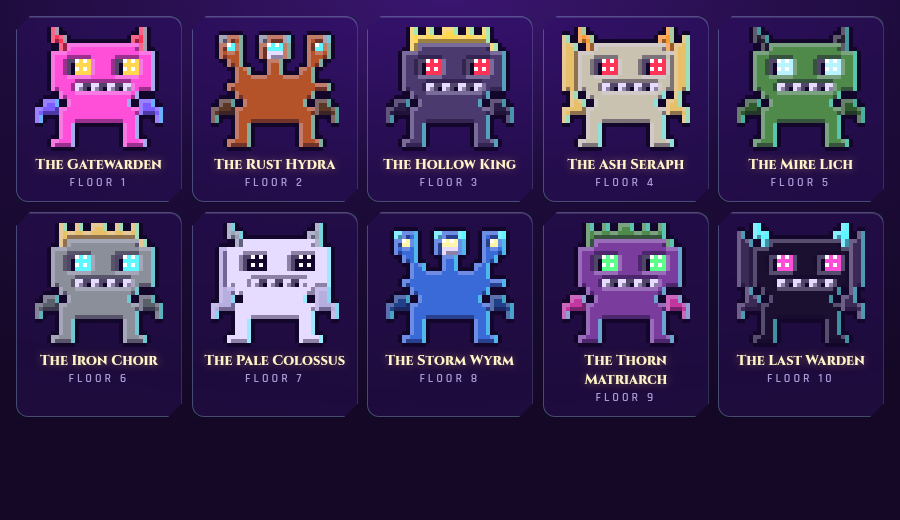
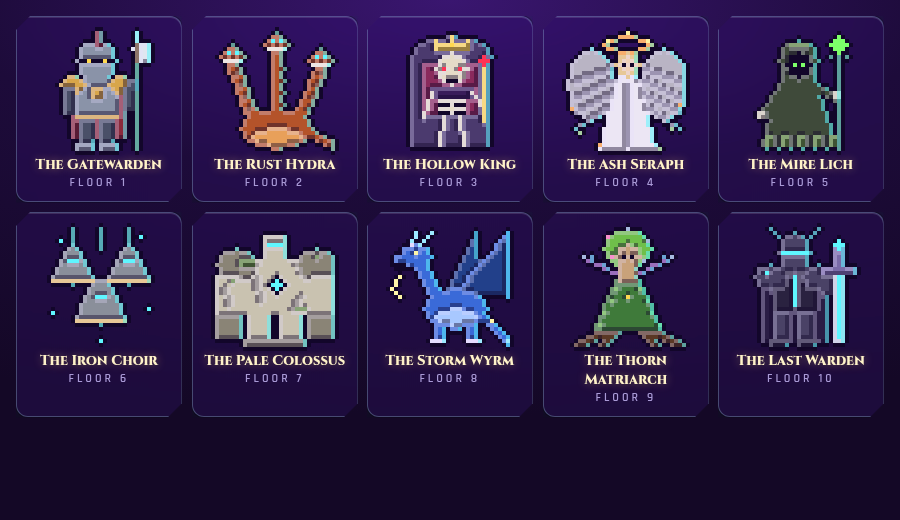
Fantasy sprite pass: 10 original creature bosses, chibi class-silhouette heroes

diff --git a/js/bosses.js b/js/bosses.js
@@ -1,0 +1,91 @@
+// Floor bosses: original creature silhouettes drawn with simple primitives on a 32x32 grid, then outlined/shaded by shade().
+// Pure (no DOM). Palette chars: k = deep shadow, E = glow (both unshaded).
+import { shade } from './pixel.js';
+export const BOSS_SIZE = 32;
+function canvas() {
+  const g = Array.from({ length: BOSS_SIZE }, () => Array(BOSS_SIZE).fill('.'));
+  const px = (x, y, c) => { x = Math.round(x); y = Math.round(y); if (x >= 1 && x < BOSS_SIZE - 1 && y >= 1 && y < BOSS_SIZE - 1) g[y][x] = c; };
+  const rect = (x, y, w, h, c) => { for (let j = y; j < y + h; j++) for (let i = x; i < x + w; i++) px(i, j, c); };
+  const ell = (cx, cy, rx, ry, c) => { for (let j = -ry; j <= ry; j++) for (let i = -rx; i <= rx; i++) if ((i * i) / (rx * rx + 0.5) + (j * j) / (ry * ry + 0.5) <= 1) px(cx + i, cy + j, c); };
+  const line = (x0, y0, x1, y1, c, t = 1) => { const n = Math.max(Math.abs(x1 - x0), Math.abs(y1 - y0), 1); for (let s = 0; s <= n; s++) { const x = x0 + (x1 - x0) * s / n, y = y0 + (y1 - y0) * s / n; rect(Math.round(x - (t - 1) / 2), Math.round(y - (t - 1) / 2), t, t, c); } };
+  const tri = (a, b, d, c) => { const [minY, maxY] = [Math.min(a[1], b[1], d[1]), Math.max(a[1], b[1], d[1])]; for (let y = minY; y <= maxY; y++) for (let x = 0; x < BOSS_SIZE; x++) {
+    const s = (p, q) => (q[0] - p[0]) * (y - p[1]) - (q[1] - p[1]) * (x - p[0]); const e = [s(a, b), s(b, d), s(d, a)]; if (e.every(v => v >= 0) || e.every(v => v <= 0)) px(x, y, c); } };
+  const flare = (y0, y1, cx, w0, w1, c) => { for (let y = y0; y <= y1; y++) { const w = Math.round(w0 + (w1 - w0) * (y - y0) / Math.max(1, y1 - y0)); rect(cx - w, y, 2 * w + 1, 1, c); } };
+  return { g, px, rect, ell, line, tri, flare, rows: () => g.map(r => r.join('')) };
+}
+const K = '#12062a';
+export const BOSSES = [
+  { name: 'The Gatewarden', pal: { R: '#8a2a3c', M: '#8a93a8', D: '#4a5068', G: '#d8a64a', W: '#6b4a2b', S: '#dfe6f0', E: '#ffd84f', k: K }, draw: ({ rect, ell, line, px }) => {
+    rect(9, 13, 14, 15, 'R');                                  // cape
+    line(25, 3, 25, 30, 'W', 1); rect(26, 4, 3, 5, 'S'); line(25, 1, 25, 3, 'S'); px(24, 5, 'S'); // halberd
+    ell(15, 8, 5, 5, 'M'); line(15, 1, 15, 3, 'R', 2); rect(11, 8, 9, 1, 'k'); px(13, 8, 'E'); px(17, 8, 'E'); // helm, plume, visor
+    rect(10, 13, 11, 10, 'M'); rect(14, 15, 3, 3, 'G'); rect(10, 22, 11, 1, 'G');
+    ell(9, 14, 3, 2, 'G'); ell(21, 14, 3, 2, 'G'); rect(7, 15, 3, 7, 'D'); rect(22, 15, 3, 6, 'D'); rect(23, 13, 3, 3, 'D'); // pauldrons, arms
+    rect(11, 23, 4, 6, 'D'); rect(16, 23, 4, 6, 'D'); rect(10, 29, 5, 2, 'M'); rect(16, 29, 5, 2, 'M');
+  } },
+  { name: 'The Rust Hydra', pal: { B: '#b4532a', L: '#e8a05a', H: '#6b2e18', w: '#f4ead8', E: '#5ff6ff', k: K }, draw: ({ ell, line, px }) => {
+    line(24, 26, 30, 29, 'B', 2); ell(16, 25, 9, 5, 'B'); ell(16, 27, 6, 2, 'L');
+    for (const [x0, x1, y1] of [[10, 5, 9], [16, 16, 6], [22, 27, 10]]) { line(x0, 22, x1, y1, 'B', 3); ell(x1, y1 - 2, 3, 2, 'B'); px(x1 - 1, y1 - 3, 'E'); px(x1 + 1, y1 - 3, 'E'); line(x1 - 2, y1 - 1, x1 + 2, y1 - 1, 'w'); px(x1, y1 - 5, 'H'); }
+    for (let i = 0; i < 4; i++) { px(9 - i, 20 - i * 3, 'H'); px(18, 19 - i * 3, 'H'); px(24 + i, 20 - i * 3, 'H'); }
+  } },
+  { name: 'The Hollow King', pal: { T: '#4b3a6e', R: '#8a2a5c', W: '#e6dcc8', P: '#3a1d5a', G: '#ffd84f', E: '#ff3355', k: K }, draw: ({ rect, ell, line, px }) => {
+    ell(16, 7, 10, 5, 'T'); rect(6, 7, 20, 23, 'T'); rect(9, 9, 14, 13, 'R'); rect(7, 22, 18, 3, 'T'); // throne
+    ell(16, 10, 4, 4, 'W'); px(14, 10, 'k'); px(18, 10, 'k'); px(14, 10, 'E'); px(18, 10, 'E'); rect(15, 13, 3, 1, 'k'); // skull
+    rect(12, 4, 9, 2, 'G'); px(12, 3, 'G'); px(16, 2, 'G'); px(16, 3, 'G'); px(20, 3, 'G');           // crown
+    rect(11, 15, 11, 3, 'P'); rect(13, 18, 7, 4, 'W'); for (const y of [19, 21]) rect(13, y, 7, 1, 'k'); px(16, 19, 'W'); px(16, 21, 'W');
+    line(11, 16, 9, 22, 'W'); line(21, 16, 24, 20, 'W'); line(24, 9, 24, 23, 'G'); ell(24, 8, 1, 1, 'E'); // arms, scepter
+    line(14, 22, 13, 29, 'W'); line(18, 22, 19, 29, 'W'); rect(7, 25, 2, 5, 'T'); rect(23, 25, 2, 5, 'T');
+  } },
+  { name: 'The Ash Seraph', pal: { F: '#ff9a2e', W: '#b9b4c4', L: '#7d7590', R: '#ece6f4', S: '#f1d1b5', G: '#e8c06a', E: '#fff3a0', k: K }, draw: ({ ell, line, flare, px }) => {
+    ell(7, 14, 6, 9, 'W'); ell(25, 14, 6, 9, 'W'); for (let i = 0; i < 4; i++) { line(12, 10 + i * 3, 3, 13 + i * 4, 'L'); line(20, 10 + i * 3, 29, 13 + i * 4, 'L'); }
+    ell(16, 4, 6, 2, 'F'); ell(16, 4, 4, 1, '.'); px(16, 1, 'E'); px(11, 3, 'E'); px(21, 3, 'E');      // burning halo
+    flare(12, 30, 16, 2, 7, 'R'); line(16, 14, 16, 29, 'L'); ell(16, 9, 3, 3, 'G'); ell(16, 9, 2, 2, 'S'); px(15, 9, 'k'); px(17, 9, 'k');
+    for (const [x, y] of [[4, 26], [27, 25], [9, 29], [24, 30], [2, 20], [29, 19]]) px(x, y, 'F');
+  } },
+  { name: 'The Mire Lich', pal: { R: '#3f4a3a', M: '#5f8a3a', W: '#d6d0b8', D: '#5a3825', E: '#7dff6a', k: K }, draw: ({ rect, ell, line, flare, px }) => {
+    line(25, 5, 25, 30, 'D'); ell(25, 4, 2, 2, 'E'); px(23, 7, 'D'); px(27, 7, 'D');                // staff + orb
+    flare(12, 29, 15, 4, 9, 'R'); for (let x = 7; x <= 23; x += 3) rect(x, 30, 1, 1, 'R');             // ragged robe
+    for (let x = 7; x <= 23; x += 4) rect(x, 27, 2, 3, 'M');
+    ell(15, 8, 5, 5, 'R'); ell(15, 9, 3, 3, 'k'); px(14, 9, 'E'); px(16, 9, 'E'); rect(13, 4, 5, 1, 'M');
+    line(10, 15, 6, 21, 'R', 2); line(20, 15, 24, 17, 'R', 2); rect(5, 21, 2, 2, 'W'); rect(24, 16, 2, 2, 'W');
+  } },
+  { name: 'The Iron Choir', pal: { M: '#8a8f9a', D: '#4a4f5a', G: '#e8c06a', E: '#5ff6ff', k: K }, draw: ({ rect, ell, line, flare, px }) => {
+    for (const x of [9, 16, 23]) line(x, 1, x, 6, 'D');
+    for (const [cx, cy, w] of [[9, 7, 4], [23, 7, 4], [16, 16, 5]]) { ell(cx, cy, w - 2, 2, 'M'); flare(cy, cy + w + 3, cx, w - 2, w + 1, 'M'); rect(cx - w - 1, cy + w + 3, 2 * w + 3, 1, 'G'); rect(cx - 1, cy + 2, 3, 1, 'E'); px(cx, cy + w + 4, 'D'); }
+    for (const [x, y] of [[4, 22], [28, 21], [16, 29], [6, 4], [26, 3]]) px(x, y, 'E');               // resonance motes
+  } },
+  { name: 'The Pale Colossus', big: true, pal: { S: '#c9c2b0', D: '#8a8476', M: '#5f8a3a', E: '#5ff6ff', k: K }, draw: ({ rect, ell, line, px }) => {
+    rect(9, 22, 6, 9, 'S'); rect(17, 22, 6, 9, 'S'); rect(8, 29, 8, 2, 'D'); rect(16, 29, 8, 2, 'D');  // legs
+    rect(7, 9, 18, 14, 'S'); ell(6, 10, 5, 4, 'D'); ell(26, 10, 5, 4, 'D');                          // torso, shoulders
+    rect(1, 13, 6, 11, 'S'); rect(25, 13, 6, 11, 'S'); rect(1, 23, 7, 6, 'D'); rect(24, 23, 7, 6, 'D'); // arms, fists
+    rect(13, 3, 6, 6, 'S'); rect(14, 5, 4, 1, 'E');                                                  // head, visor
+    ell(16, 15, 2, 2, 'k'); ell(16, 15, 1, 1, 'E'); line(10, 11, 12, 19, 'D'); line(22, 18, 20, 21, 'D'); line(3, 16, 4, 20, 'D');
+    rect(7, 9, 4, 2, 'M'); rect(21, 21, 3, 1, 'M'); px(26, 8, 'M'); px(5, 14, 'M');
+  } },
+  { name: 'The Storm Wyrm', pal: { B: '#3a6ad8', L: '#a8c8ff', W: '#22408a', H: '#e6dcff', E: '#fff6a8', k: K }, draw: ({ rect, ell, line, tri, px }) => {
+    tri([17, 17], [30, 2], [30, 18], 'W'); tri([14, 17], [22, 2], [24, 16], 'W'); line(17, 17, 30, 2, 'B'); line(30, 2, 30, 18, 'B'); // wings
+    line(24, 23, 30, 29, 'B', 2); px(30, 29, 'H');                                                  // tail
+    ell(17, 21, 8, 5, 'B'); ell(17, 23, 5, 2, 'L'); rect(12, 25, 3, 5, 'B'); rect(20, 25, 3, 5, 'B'); rect(11, 29, 4, 1, 'H'); rect(20, 29, 4, 1, 'H');
+    line(12, 18, 8, 10, 'B', 3); ell(7, 8, 4, 3, 'B'); rect(2, 8, 4, 2, 'B'); line(8, 5, 11, 2, 'H'); line(6, 5, 7, 2, 'H'); px(7, 7, 'E'); rect(2, 10, 3, 1, 'k');
+    line(3, 13, 1, 16, 'E'); line(1, 16, 3, 18, 'E'); px(26, 24, 'E');                               // lightning
+  } },
+  { name: 'The Thorn Matriarch', pal: { D: '#5a3825', B: '#3f7a3a', H: '#6fbf4a', S: '#c9a27a', A: '#7a3d9e', F: '#ff6fb8', E: '#ffd84f', k: K }, draw: ({ rect, ell, line, flare, px }) => {
+    for (const x of [3, 9, 23, 29]) line(16, 24, x, 30, 'D', 2);                                    // roots
+    line(14, 13, 5, 8, 'A', 1); line(18, 13, 27, 8, 'A', 1); for (const [x, y] of [[7, 9], [25, 9], [10, 11], [22, 11]]) px(x, y - 1, 'A'); // thorn vines
+    flare(14, 26, 16, 3, 8, 'B'); for (let y = 16; y <= 26; y += 3) { px(16 - (y - 10) / 2, y, 'H'); px(16 + (y - 10) / 2, y, 'H'); }
+    ell(16, 6, 6, 5, 'H'); rect(14, 11, 5, 4, 'S'); ell(16, 8, 3, 3, 'S'); px(15, 8, 'k'); px(17, 8, 'k');
+    for (const [x, y] of [[11, 3], [21, 4], [12, 8], [20, 9], [5, 8], [27, 8], [16, 1]]) px(x, y, 'F'); px(16, 18, 'E');
+  } },
+  { name: 'The Last Warden', pal: { P: '#2a1d45', B: '#2a2240', M: '#4a4266', S: '#c8d0e0', G: '#7a6aa8', E: '#5ff6ff', k: K }, draw: ({ rect, ell, line, px }) => {
+    rect(6, 12, 17, 18, 'P');                                                                         // cape
+    rect(9, 12, 11, 10, 'B'); line(14, 13, 14, 20, 'E'); ell(8, 13, 4, 3, 'M'); ell(20, 13, 4, 3, 'M'); px(7, 12, 'E'); px(21, 12, 'E');
+    ell(14, 7, 4, 5, 'M'); rect(11, 7, 7, 1, 'E'); line(10, 3, 8, 1, 'M'); line(18, 3, 20, 1, 'M');   // horned helm, cyan visor
+    rect(9, 22, 4, 8, 'M'); rect(15, 22, 4, 8, 'M'); rect(8, 29, 5, 2, 'B'); rect(15, 29, 5, 2, 'B');
+    rect(24, 12, 3, 18, 'S'); line(25, 13, 25, 28, 'E'); rect(21, 11, 9, 2, 'G'); rect(24, 6, 3, 5, 'G'); ell(25, 5, 1, 1, 'E'); // planted greatsword
+    rect(21, 15, 3, 3, 'M');                                                                          // gauntlet on the grip line
+  } },
+];
+const at = f => BOSSES[(f - 1) % BOSSES.length];
+export function bossShape(f) { const c = canvas(); at(f).draw(c); return { rows: c.rows() }; }
+export const bossGrid = f => shade(bossShape(f).rows, at(f).pal, { scale: 1, drop: '', eyes: '', flat: 'kE' });
+export const bossIsBig = f => !!at(f).big;

diff --git a/js/cosmetics.js b/js/cosmetics.js
@@ -6,7 +6,7 @@ export const CATALOG = [
   I('skin-1', 'skin', 'Pale', '#f1d1b5'), I('skin-2', 'skin', 'Sand', '#c9a27a'), I('skin-3', 'skin', 'Umber', '#8a5a3c'), I('skin-4', 'skin', 'Deep', '#5a3825'),
   I('skin-ghost', 'skin', 'Ghost', '#b8f3ff', { floor: 7 }),
   // hair colour
-  I('hc-ink', 'hairColor', 'Ink', '#1b1030'), I('hc-rust', 'hairColor', 'Rust', '#b4532a'), I('hc-straw', 'hairColor', 'Straw', '#e8c35a'), I('hc-plum', 'hairColor', 'Plum', '#7a3d9e'),
+  I('hc-ink', 'hairColor', 'Ink', '#3b2c66'), I('hc-rust', 'hairColor', 'Rust', '#b4532a'), I('hc-straw', 'hairColor', 'Straw', '#e8c35a'), I('hc-plum', 'hairColor', 'Plum', '#7a3d9e'),
   I('hc-silver', 'hairColor', 'Static Silver', '#d6e2ff', { floor: 2 }), I('hc-neon', 'hairColor', 'Neon Cyan', '#3ff7ff', { top3: 1 }),
   // hair style
   I('hs-short', 'hairStyle', 'Short', 'short'), I('hs-long', 'hairStyle', 'Long', 'long'), I('hs-spiky', 'hairStyle', 'Spiky', 'spiky'), I('hs-hood', 'hairStyle', 'Hood', 'hood'),
@@ -95,9 +95,10 @@ export function fakeProfile(name) {
 import { shade } from './pixel.js';
 // ---------- layered sprite: 16x16 layer grid, shaded/outlined to 32x32 ----------
 export const HERO_SIZE = 32;
-const BASE = [
-  '................', '................', '......kkkk......', '.....kSSSSk.....', '.....kSeSek.....', '.....kSSSSk.....', '......kSSk......',
-  '....kOOOOOOk....', '...SkOTOOTOkS...', '...S.kOOOOk.S...', '....kOOOOOOk....', '.....kTTTTk.....', '.....kk..kk.....', '.....bb..bb.....', '................', '................'];
+const BASE = [ // chibi proportions: big head (rows 2-8), small body (rows 9-15)
+  '................', '................', '.....kkkkkk.....', '....kSSSSSSk....', '...kSSSSSSSSk...', '...kSSeSSeSSk...', '...kSSfSSfSSk...', '...kSmSSSSmSk...',
+  '....kSSSSSSk....', '.....kOOOOk.....', '....kOOOOOOk....', '...SkOTOOTOkS...', '....kOOOOOOk....', '.....kTTTTk.....', '.....bb..bb.....', '.....bb..bb.....'];
+const HAND_DY = 3; // weapons were authored for the old hand row; shift down to the chibi hand
 const WEAPONS = { // [x,y,ch] lists drawn at the hero's right hand (col 12-15)
   sword: [[13,2,'W'],[13,3,'W'],[13,4,'W'],[13,5,'W'],[13,6,'W'],[12,7,'w'],[13,7,'w'],[14,7,'w'],[13,8,'w']],
   axe: [[13,3,'w'],[13,4,'w'],[13,5,'w'],[13,6,'w'],[13,7,'w'],[13,8,'w'],[14,3,'W'],[15,3,'W'],[14,4,'W'],[15,4,'W'],[14,5,'W']],
@@ -110,20 +111,26 @@ const WEAPONS = { // [x,y,ch] lists drawn at the hero's right hand (col 12-15)
   wand: [[13,5,'W'],[14,4,'W'],[12,4,'W'],[13,3,'W'],[13,6,'w'],[13,7,'w'],[13,8,'w']],
 };
 /** Returns {rows: 32 strings of 32 chars, pal: char->colour} for a look + class. */
-export const heroGrid = (look, cls) => { const g = heroGrid16(look, cls); return shade(g.rows, g.pal); };
+export const heroGrid = (look, cls) => { const g = heroGrid16(look, cls); return shade(g.rows, g.pal, { flat: 'fm' }); };
 export function heroGrid16(look, cls) {
   const g = BASE.map(r => [...r]), set = (x, y, c) => { if (x >= 0 && x < 16 && y >= 0 && y < 16) g[y][x] = c; };
+  const fill = (x0, x1, y0, y1, c) => { for (let y = y0; y <= y1; y++) for (let x = x0; x <= x1; x++) set(x, y, c); };
   const style = byId(look.outfitStyle).value, hair = byId(look.hairStyle).value;
-  if (style === 'robe') { for (let y = 11; y <= 13; y++) for (let x = 5; x <= 10; x++) set(x, y, y === 13 ? 'T' : 'O'); set(4, 12, 'k'); set(11, 12, 'k'); }
-  if (style === 'plate') { set(3, 7, 'T'); set(4, 7, 'T'); set(11, 7, 'T'); set(12, 7, 'T'); set(6, 9, 'T'); set(9, 9, 'T'); }
-  if (style === 'cloak') { for (let y = 7; y <= 12; y++) { set(2, y, 'O'); set(13, y, 'O'); } set(1, 8, 'T'); set(14, 8, 'T'); }
-  if (hair === 'short') { for (let x = 5; x <= 10; x++) set(x, 2, 'H'); set(5, 3, 'H'); set(10, 3, 'H'); }
-  if (hair === 'long') { for (let x = 5; x <= 10; x++) set(x, 2, 'H'); for (let y = 3; y <= 8; y++) { set(4, y, 'H'); set(11, y, 'H'); } set(5, 3, 'H'); set(10, 3, 'H'); }
-  if (hair === 'spiky') { for (let x = 5; x <= 10; x++) set(x, 2, 'H'); [5, 7, 9].forEach(x => set(x, 1, 'H')); [6, 8, 10].forEach(x => set(x, 0, 'H')); set(5, 3, 'H'); }
-  if (hair === 'hood') { for (let x = 4; x <= 11; x++) set(x, 2, 'O'); for (let y = 3; y <= 6; y++) { set(4, y, 'O'); set(11, y, 'O'); } set(5, 1, 'O'); set(6, 1, 'O'); set(9, 1, 'O'); set(10, 1, 'O'); set(5, 3, 'H'); set(10, 3, 'H'); }
-  if (hair === 'crown') { for (let x = 5; x <= 10; x++) set(x, 2, 'H'); [5, 7, 8, 10].forEach(x => set(x, 1, 'y')); set(7, 0, 'y'); }
-  for (const [x, y, c] of WEAPONS[byId(look.weapon).value] || []) set(x, y, c);
-  const pal = { k: '#12062a', e: '#12062a', b: '#3a2a55', y: '#ffd84f', p: '#ff4fd8', S: byId(look.skin).value, H: byId(look.hairColor).value,
+  if (style === 'robe') { fill(4, 11, 13, 14, 'O'); fill(4, 11, 15, 15, 'T'); }
+  if (style === 'plate') { [3, 4, 11, 12].forEach(x => set(x, 10, 'T')); set(6, 12, 'T'); set(9, 12, 'T'); }
+  if (style === 'cloak') { fill(2, 2, 10, 14, 'O'); fill(13, 13, 10, 14, 'O'); set(1, 11, 'T'); set(14, 11, 'T'); }
+  const top = () => { fill(4, 11, 2, 2, 'H'); fill(3, 12, 3, 3, 'H'); [3, 4, 5, 7, 9, 10, 11, 12].forEach(x => set(x, 4, 'H')); };
+  if (hair === 'short') top();
+  if (hair === 'long') { top(); fill(2, 3, 5, 10, 'H'); fill(12, 13, 5, 10, 'H'); }
+  if (hair === 'spiky') { top(); [4, 6, 8, 10, 11].forEach(x => set(x, 1, 'H')); set(5, 0, 'H'); set(9, 0, 'H'); }
+  if (hair === 'hood') { fill(5, 10, 1, 1, 'O'); fill(3, 12, 2, 2, 'O'); fill(2, 13, 3, 3, 'O'); fill(2, 3, 4, 9, 'O'); fill(12, 13, 4, 9, 'O'); [4, 5, 10, 11].forEach(x => set(x, 4, 'H')); }
+  if (hair === 'crown') { top(); fill(4, 11, 1, 1, 'y'); [4, 7, 8, 11].forEach(x => set(x, 0, 'y')); }
+  // class silhouettes
+  if (cls === 'Vanguard') { fill(0, 3, 10, 14, 'T'); fill(1, 2, 11, 13, 'O'); set(3, 10, 'T'); set(12, 10, 'T'); } // kite shield + pauldrons
+  if (cls === 'Blade') { [[4, 9], [3, 9], [2, 10], [1, 10], [1, 11], [0, 12]].forEach(([x, y]) => set(x, y, 'r')); } // trailing scarf
+  if (cls === 'Arcanist' && hair !== 'hood' && hair !== 'crown') { set(10, 0, 'O'); set(11, 0, 'O'); fill(7, 9, 1, 1, 'O'); fill(5, 10, 2, 2, 'T'); fill(2, 13, 3, 3, 'O'); } // soft pointed hat
+  for (const [x, y, c] of WEAPONS[byId(look.weapon).value] || []) set(x, y + HAND_DY, c);
+  const pal = { k: '#12062a', e: '#12062a', f: '#2a1d45', m: '#ff8fa8', r: '#ff3355', b: '#3a2a55', y: '#ffd84f', p: '#ff4fd8', S: byId(look.skin).value, H: byId(look.hairColor).value,
     O: byId(look.outfitColor).value, T: byId(look.trim).value, W: byId(look.weaponColor).value, w: '#6b4a2b' };
   return { rows: g.map(r => r.join('')), pal };
 }

diff --git a/js/sprites.js b/js/sprites.js
@@ -8,30 +8,8 @@ export function sprite(rows, pal = PAL) {
 }
 const cache = new Map();
 const memo = (k, f) => { if (!cache.has(k)) cache.set(k, f()); return cache.get(k); };
-const BOSS_BASE = [
- '..H..........H..', '..HH........HH..', '...HBBBBBBBBBH..', '..BBBBBBBBBBBBB.', '..BBkEEBBBkEEBB.', '..BBkEEBBBkEEBB.', '..BBBBBBBBBBBBB.',
- '..BBBwkwkwkwBBB.', '...BBBBBBBBBB...', '.AA.BBBBBBBB.AA.', 'AAABBBBBBBBBBAAA', 'A..BBBBBBBBBB..A', '...BB......BB...', '...BB......BB...', '..BBB......BBB..', '................'];
-const BOSS_PAL = [ // body, horns, arms, eyes per floor
- ['#ff4fd8', '#ff3355', '#7a5cff', '#ffd84f'], ['#b4532a', '#8a8f9a', '#5a3825', '#5ff6ff'], ['#4b3a6e', '#ffd84f', '#2a1d45', '#ff3355'],
- ['#c9c2b0', '#ff9a2e', '#e8c06a', '#ff3355'], ['#4f8a4b', '#26232e', '#2f5a2c', '#b8f3ff'], ['#8a8f9a', '#e8c06a', '#5a5f6a', '#5ff6ff'],
- ['#e6dcff', '#9aa3b5', '#b7aee0', '#12062a'], ['#3a6ad8', '#5ff6ff', '#22408a', '#fff6a8'], ['#7a3d9e', '#4f8a4b', '#c2369e', '#5cff8a'], ['#1b1030', '#5ff6ff', '#3a2a55', '#ff4fd8']];
-const HYDRA_TOP = ['................', '.HBB..HBBH..BBH.', '.BEB..BEEB..BEB.', '.BBB..BwwB..BBB.', '..BB...BB...BB..', '...BB..BB..BB...', '...BBBBBBBBBB...', '..BBBBBBBBBBBBB.'];
-const SHAPES = ['horned', 'hydra', 'crown', 'wings', 'horned', 'crown', 'hulk', 'hydra', 'crown', 'wings']; // one per floor
-const put = (rows, pts, ch) => { const g = rows.map(r => [...r]); for (const [x, y] of pts) g[y][x] = ch; return g.map(r => r.join('')); };
-export function bossShape(f) {
-  const shape = SHAPES[(f - 1) % SHAPES.length];
-  let rows = BOSS_BASE;
-  if (shape === 'crown') rows = rows.map((r, y) => y === 0 ? '...H.H.HH.H.H...' : y === 1 ? '...HHHHHHHHHH...' : r);
-  if (shape === 'hydra') rows = [...HYDRA_TOP, ...BOSS_BASE.slice(8)];
-  if (shape === 'wings') rows = put(rows, [[0, 1], [15, 1], [0, 2], [1, 2], [14, 2], [15, 2], ...[3, 4, 5, 6, 7].flatMap(y => [[0, y], [1, y], [14, y], [15, y]]), [1, 8], [14, 8]], 'A');
-  if (shape === 'hulk') rows = rows.map((r, y) => y >= 3 && y <= 11 ? r.replace(/^\.+/, m => '.' + 'A'.repeat(m.length - 1)).replace(/\.+$/, m => 'A'.repeat(m.length - 1) + '.') : r);
-  return { shape, rows };
-}
-export const BOSS_SIZE = 32;
-export function bossGrid(f) {
-  const [B, H, A, E] = BOSS_PAL[(f - 1) % BOSS_PAL.length];
-  return shade(bossShape(f).rows, { k: '#12062a', w: '#e6dcff', B, H, A, E }, { drop: '', eyes: 'E' });
-}
+import { bossGrid } from './bosses.js';
+export { bossGrid, bossShape, bossIsBig, BOSS_SIZE } from './bosses.js';
 export const bossSprite = f => memo('b' + f, () => { const g = bossGrid(f); return sprite(g.rows, g.pal); });
 export const BOSS_SPRITE = bossSprite(1);
 import { heroGrid } from './cosmetics.js';

diff --git a/js/pixel.js b/js/pixel.js
@@ -4,7 +4,7 @@ const hex = c => [1, 3, 5].map(i => parseInt(c.slice(i, i + 2), 16));
 export const mix = (a, b, t) => '#' + hex(a).map((v, i) => Math.round(v + (hex(b)[i] - v) * t).toString(16).padStart(2, '0')).join('');
 const POOL = [...Array(94)].map((_, i) => String.fromCharCode(33 + i)).filter(c => c !== '.');
 /** rows: N strings of N chars, pal: char->'#rrggbb'. Chars listed in `drop` are cleared (old hand-drawn outlines). */
-export function shade(rows, pal, { scale = 2, drop = 'k', eyes = 'e' } = {}) {
+export function shade(rows, pal, { scale = 2, drop = 'k', eyes = 'e', flat = '' } = {}) {
   const n = rows.length * scale, src = rows.map(r => [...r]);
   const at = (x, y) => { const c = src[Math.floor(y / scale)]?.[Math.floor(x / scale)]; return c && c !== '.' && pal[c] && !drop.includes(c) ? c : null; };
   const out = [], cmap = new Map(), key = col => { if (!cmap.has(col)) cmap.set(col, POOL[cmap.size]); return cmap.get(col); };
@@ -15,7 +15,8 @@ export function shade(rows, pal, { scale = 2, drop = 'k', eyes = 'e' } = {}) {
       if (!c) { const near = [[1, 0], [-1, 0], [0, 1], [0, -1]].some(([dx, dy]) => at(x + dx, y + dy)); row += near ? key(OUTLINE) : '.'; continue; }
       const base = pal[c];
       let col = base;
-      if (eyes.includes(c)) col = (x % scale === 0 && y % scale === 0) ? '#ffffff' : base; // eye catch-light
+      if (flat.includes(c)) col = base;                                     // glow / detail pixels stay unshaded
+      else if (eyes.includes(c)) col = (x % scale === 0 && y % scale === 0) ? '#ffffff' : base; // eye catch-light
       else if (!at(x + 1, y)) col = mix(base, RIM, 0.55);                   // rim light on the right silhouette edge
       else if (at(x, y - 1) !== c || at(x - 1, y) !== c) col = mix(base, '#e4dcff', 0.3); // light (top/left), lavender-tinted
       else if (at(x, y + 1) !== c || at(x + 1, y) !== c) col = mix(base, OUTLINE, 0.42);   // shadow (bottom/right)

diff --git a/js/main.js b/js/main.js
@@ -1,7 +1,7 @@
 import { CLASSES, newHero, heroDps, levelCost, gearCost, computeProgress, applyXp, bossName, fmt, fmtDur, xpToNext } from './game.js';
 import { makeBackend } from './storage.js';
 import { OFFLINE_CAP_HOURS, MAX_FLOOR } from '../config.js';
-import { bossSprite, heroSprite } from './sprites.js';
+import { bossSprite, bossIsBig, heroSprite } from './sprites.js';
 import { SLOTS, CREATION_SLOTS, itemsFor, isUnlocked, unlockText, defaultLook, migrateSave, recordClear, equip, titleOf, nameColorOf, fakeProfile, byId, SAVE_VERSION } from './cosmetics.js';
 const $ = id => document.getElementById(id);
 const esc = s => String(s).replace(/[&<>"']/g, c => `&#${c.charCodeAt(0)};`);
@@ -94,7 +94,7 @@ function buy(kind) {
 }
 function render() {
   const h = save.heroes[0];
-  $('hero').style.backgroundImage = heroSprite(h.look, h.cls); $('boss').style.backgroundImage = bossSprite(floor.floor);
+  $('hero').style.backgroundImage = heroSprite(h.look, h.cls); $('boss').style.backgroundImage = bossSprite(floor.floor); $('boss').classList.toggle('big', bossIsBig(floor.floor));
   const won = floor.floor >= MAX_FLOOR && floor.hp <= 0;
   $('bname').textContent = won ? 'Log out enabled' : bossName(floor.floor);
   $('floor').textContent = won ? 'System notice · the tower is silent' : `Guardian of Floor ${floor.floor} / ${MAX_FLOOR}`;

diff --git a/style.css b/style.css
@@ -41,7 +41,7 @@ button.sel{border-color:var(--cy);background:rgba(95,246,255,.15);box-shadow:ins
 .torch::after{content:'';position:absolute;left:-60px;top:-60px;width:130px;height:130px;background:radial-gradient(#ff9a2e33,transparent 65%);animation:flick .3s infinite alternate}
 @keyframes flick{to{transform:scale(.88,1.08);opacity:.85}}
 .sprite{width:32px;height:32px;transform:scale(3);transform-origin:bottom;image-rendering:pixelated;background-size:100%;z-index:1}
-#hero{animation:atk 1s steps(2) infinite}.boss{transform:scale(4.5);animation:bob 1.2s steps(2) infinite}
+#hero{animation:atk 1s steps(2) infinite}.boss{transform:scale(4.5);}.boss.big{transform:scale(5.6);}.boss{animation:bob 1.2s steps(2) infinite}
 @keyframes atk{50%{translate:4px 0}}@keyframes bob{50%{translate:0 -2px}}.hit{filter:brightness(2.5) drop-shadow(0 0 2px #fff)}
 #fx{position:absolute;inset:0;pointer-events:none;z-index:2}
 .dmg{position:absolute;font:700 20px 'Rajdhani';color:#fff;text-shadow:0 0 6px var(--cy),0 2px 0 #000;animation:up 1s ease-out forwards}
